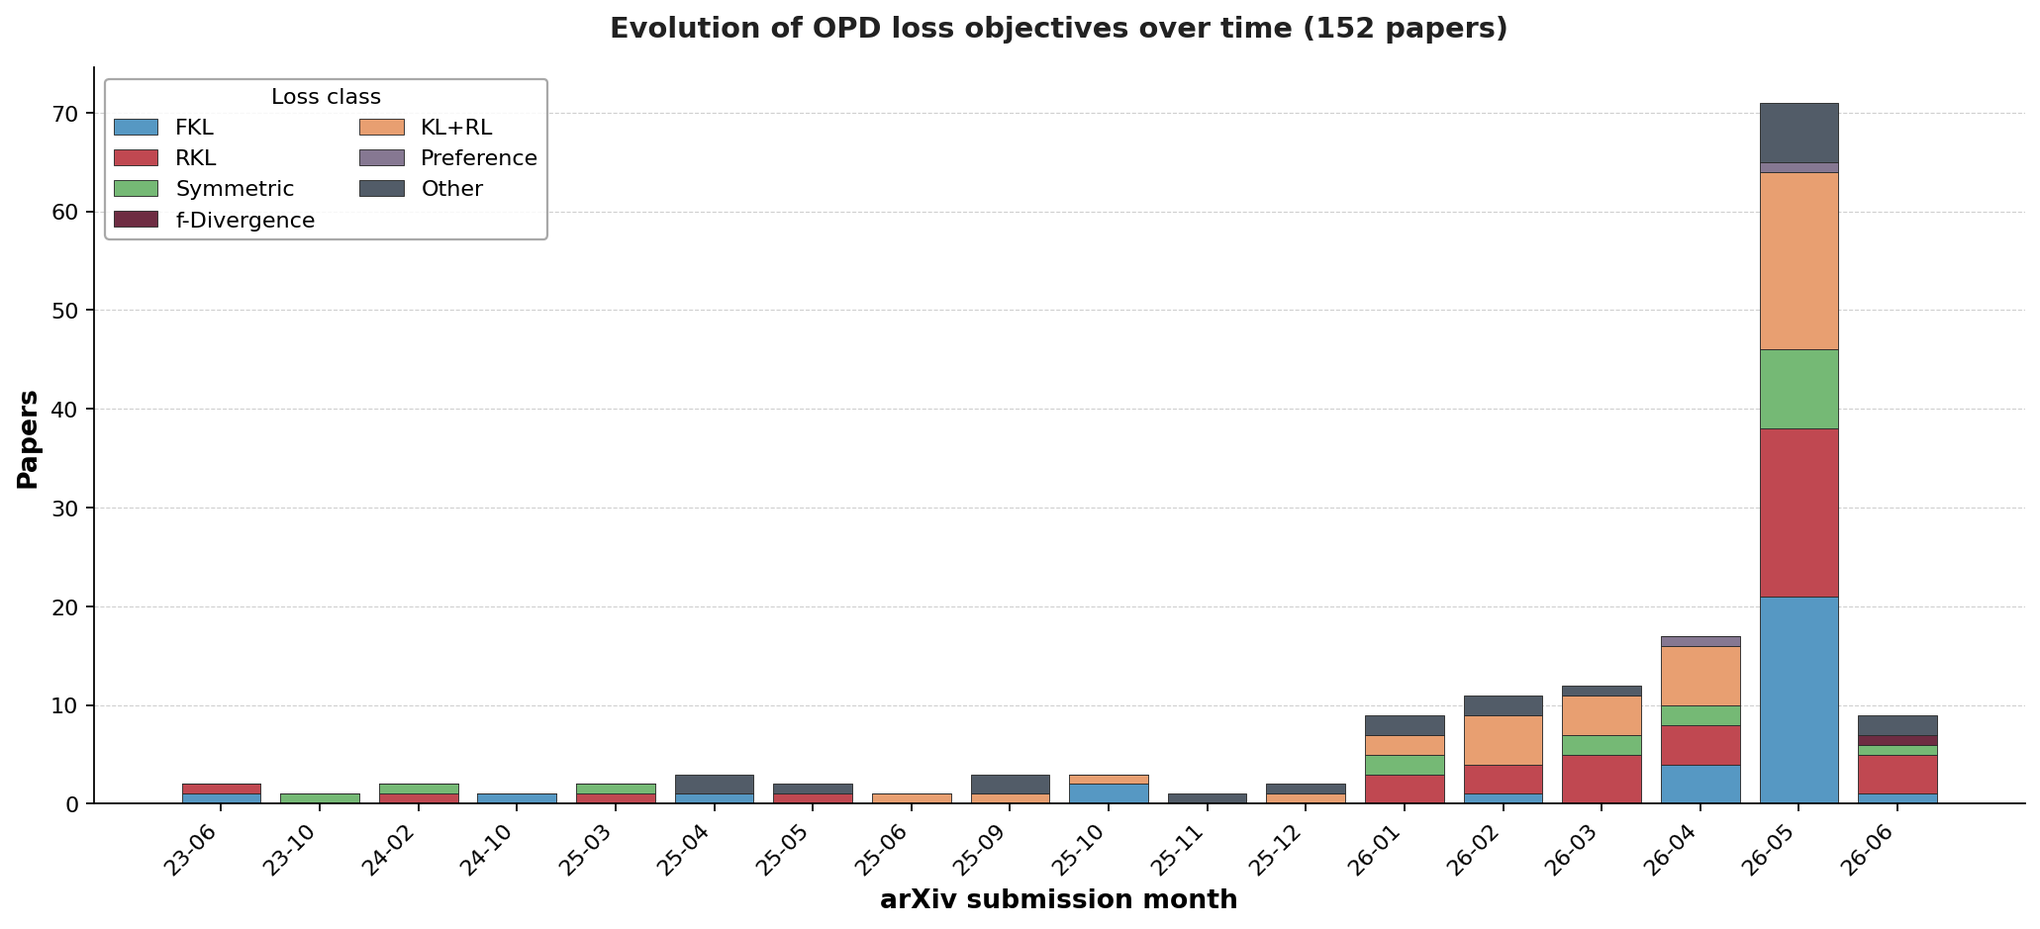
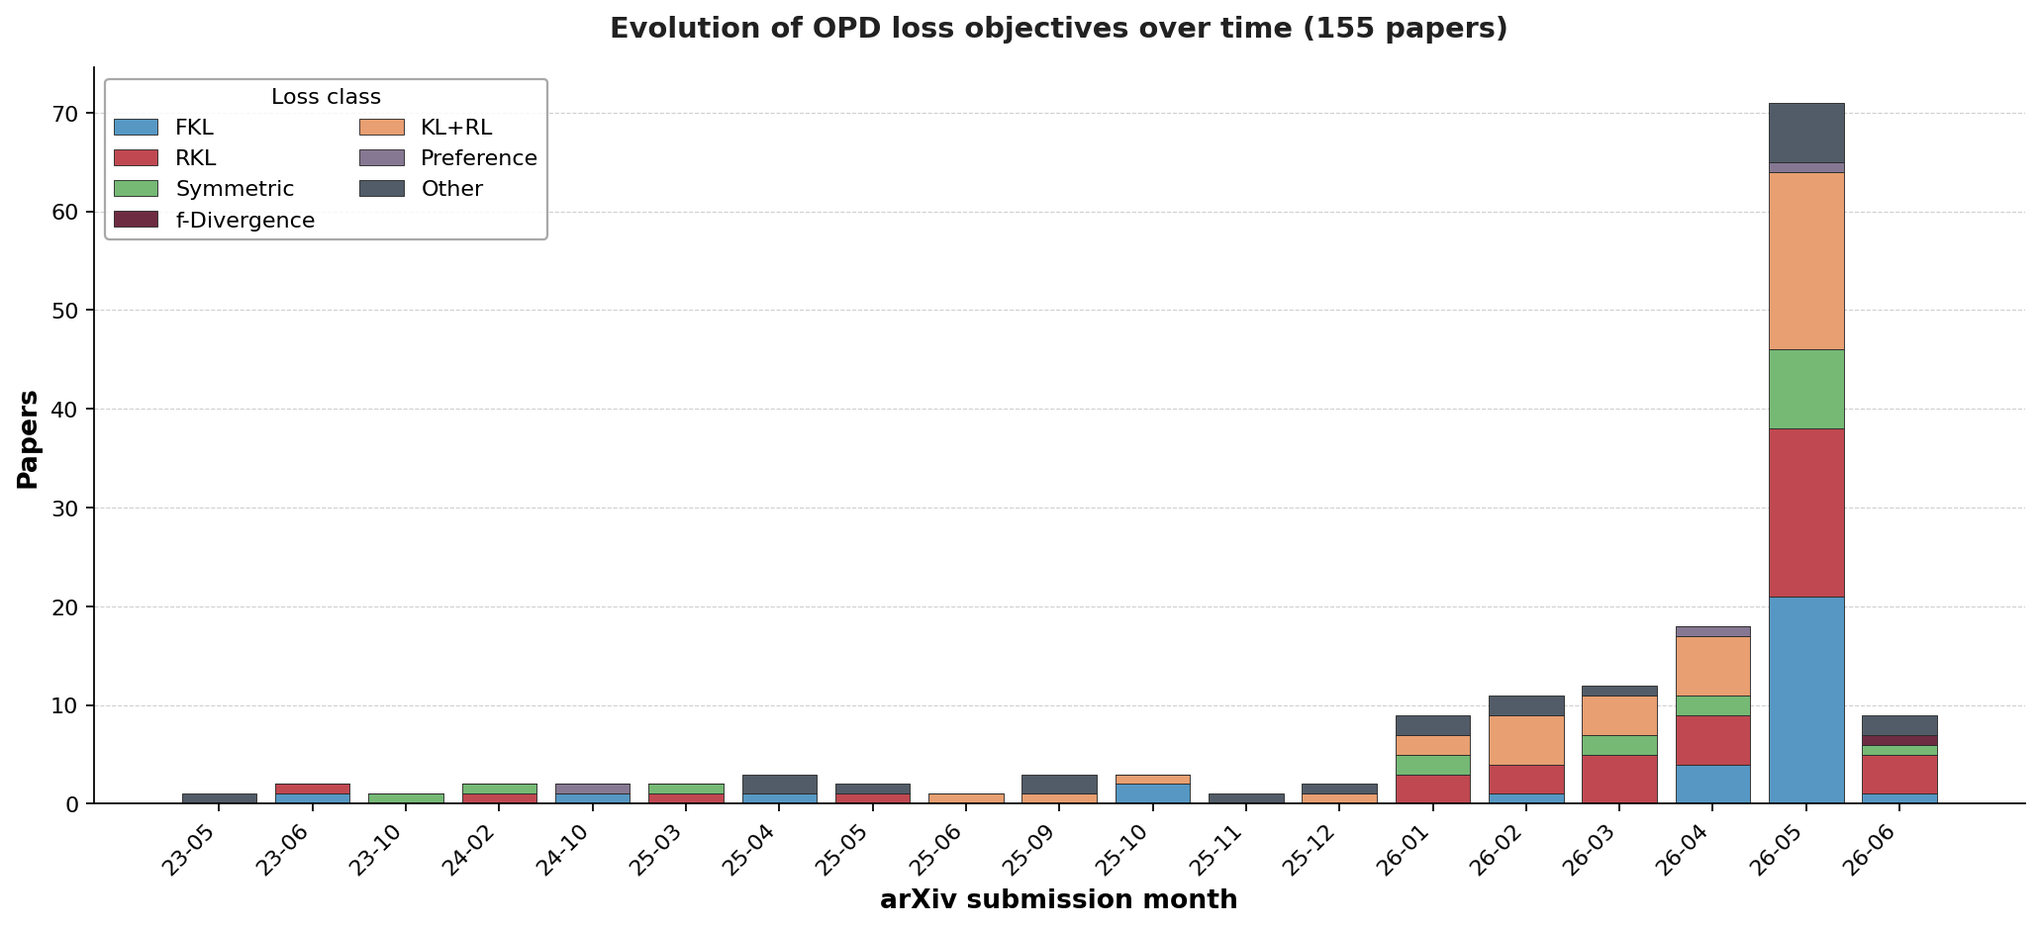
Restore 3 papers (Lion / SuperCorrect / Lightning-OPD) after v3-schema deep re-read
Original 14-paper batch flagged is_opd=yes but student_rollout_in_training=no
(internal-contradiction audit). Re-read all 14 PDFs with v3 schema:

- 3 papers actually drive teacher feedback through student-generated content,
  rollout tag was contradicted by reasoning text. Restored:
  * Lion (2305.12870) -> §6.2  (HoF early black-box OPD)
  * SuperCorrect (2410.09008) -> §5.1
  * Lightning OPD (2604.13010) -> §6.3

- 11 confirmed offline-KD or pure-self-distill, kept removed.

CHANGELOG: rewritten 2026-06-03 entry for clarity (Re-confirmed section added).
README: paper-count badge 165 -> 168, atlas text 165 -> 168 papers.
Loss-taxonomy figures + resources/loss-taxonomy.md regenerated, now 155 papers.

Survey latex-v4 cleanup logged separately (commits in survey repo): 8 bib entries
removed, 49 method-introduction citations pruned, 3 background-only references
retained at AKL §7.3, MiniPLM §9, ULD §9. pdflatex compiles 74 pages, 0
undefined refs/cites.

diff --git a/resources/loss-taxonomy.md b/resources/loss-taxonomy.md
@@ -2,49 +2,49 @@
 
 _Last updated: 2026-06-03. Auto-generated from `data/loss_classification.json`. Re-run `scripts/generate_loss_taxonomy.py` to refresh._
 
-Each of the **152** OPD papers in this collection is assigned exactly one of seven mutually-exclusive loss classes. Classification is performed by an LLM auditor that reads each paper's `loss_formulation` (LaTeX), training-loop description, and key components, then picks the dominant objective per the rules in `data/loss_taxonomy_schema.json`.
+Each of the **155** OPD papers in this collection is assigned exactly one of seven mutually-exclusive loss classes. Classification is performed by an LLM auditor that reads each paper's `loss_formulation` (LaTeX), training-loop description, and key components, then picks the dominant objective per the rules in `data/loss_taxonomy_schema.json`.
 
 ![Loss Distribution](../assets/loss-distribution.png)
 
 ## Class definitions (compact)
 
-### FKL — Forward KL  ·  **32** papers (21.1%)
+### FKL — Forward KL  ·  **32** papers (20.6%)
 
 `D_KL( \pi_T(\cdot|x) \| \pi_\theta(\cdot|x) )`
 
 _Match rule._ Loss is dominated by forward KL where the teacher distribution is the first argument (mode-covering). Includes classical KD with KL(teacher || student), CE-on-teacher-soft-targets when explicitly equivalent.
 
-### RKL — Reverse KL  ·  **40** papers (26.3%)
+### RKL — Reverse KL  ·  **41** papers (26.5%)
 
 `D_KL( \pi_\theta(\cdot|x) \| \pi_T(\cdot|x) )`
 
 _Match rule._ Loss is dominated by reverse KL where the student distribution is the first argument (mode-seeking). MiniLLM-style policy-gradient interpretations also fall here when the underlying objective is RKL to a teacher.
 
-### Symmetric — Symmetric / Skewed KL / JSD / GKL  ·  **18** papers (11.8%)
+### Symmetric — Symmetric / Skewed KL / JSD / GKL  ·  **18** papers (11.6%)
 
 `D_JSD, D_skew-KL_\alpha, D_GKL, or any symmetrized KL combination`
 
 _Match rule._ Jensen-Shannon divergence; skewed forward/reverse KL with mixture distribution \alpha\pi_T + (1-\alpha)\pi_\theta inside; bidirectional sum a*FKL + b*RKL with both nontrivial; total variation between teacher and student.
 
-### f-Divergence — Other f-divergence (alpha / Renyi / Tsallis / chi-squared)  ·  **1** papers (0.7%)
+### f-Divergence — Other f-divergence (alpha / Renyi / Tsallis / chi-squared)  ·  **1** papers (0.6%)
 
 `D_\alpha, D_Renyi, D_chi2, ... (any f-divergence beyond KL/JSD)`
 
 _Match rule._ Adaptive KL family that interpolates a parameter between FKL and RKL via alpha-divergence (AKL / TAID-style). Renyi divergence. Chi-squared. Tsallis.
 
-### KL+RL — Hybrid KL distill + RL reward  ·  **39** papers (25.7%)
+### KL+RL — Hybrid KL distill + RL reward  ·  **39** papers (25.2%)
 
 `L = D_KL(teacher, student) + \lambda \cdot R(x,a) (or GRPO/PPO surrogate with teacher KL)`
 
 _Match rule._ Loss explicitly mixes a teacher-KL distillation term with a verifiable reward / advantage / GRPO / PPO surrogate signal. Both terms must be load-bearing (removing either breaks the contribution).
 
-### Preference — Preference / Pairwise / DPO-style  ·  **2** papers (1.3%)
+### Preference — Preference / Pairwise / DPO-style  ·  **3** papers (1.9%)
 
 `DPO-style log-ratio margin between chosen and rejected responses, optionally with a KL-to-teacher hinge`
 
 _Match rule._ Preference-pair loss is the primary distillation signal: DPO, IPO, SimPO, or preference-gap KL where teacher provides the chosen response and student avoids rejected.
 
-### Other — Other / Bespoke (NLL, MSE, Contrastive, special)  ·  **20** papers (13.2%)
+### Other — Other / Bespoke (NLL, MSE, Contrastive, special)  ·  **21** papers (13.5%)
 
 `any objective that does not fit the six classes above`
 
@@ -54,16 +54,16 @@ _Match rule._ MSE on hidden states, contrastive InfoNCE between teacher/student 
 
 | Class | Papers | Share |
 |---|---:|---:|
-| FKL | 32 | 21.1% |
-| RKL | 40 | 26.3% |
-| Symmetric | 18 | 11.8% |
-| f-Divergence | 1 | 0.7% |
-| KL+RL | 39 | 25.7% |
-| Preference | 2 | 1.3% |
-| Other | 20 | 13.2% |
-| **Total** | **152** | 100% |
+| FKL | 32 | 20.6% |
+| RKL | 41 | 26.5% |
+| Symmetric | 18 | 11.6% |
+| f-Divergence | 1 | 0.6% |
+| KL+RL | 39 | 25.2% |
+| Preference | 3 | 1.9% |
+| Other | 21 | 13.5% |
+| **Total** | **155** | 100% |
 
-_Confidence breakdown: high=100, medium=51, low=1._
+_Confidence breakdown: high=103, medium=51, low=1._
 
 ![Loss Evolution Over Time](../assets/loss-evolution.png)
 
@@ -106,7 +106,7 @@ _Confidence breakdown: high=100, medium=51, low=1._
 | [2410.11325](https://arxiv.org/abs/2410.11325) | Speculative Knowledge Distillation: Bridging the Teacher-Student Gap through Interleave... | high | Loss is D(M_T \|\| M_s) = KL with teacher as first argument, i.e., forward KL D_KL(teacher \|\| student). |
 | [2306.13649](https://arxiv.org/abs/2306.13649) | On-Policy Distillation of Language Models: Learning from Self-Generated Mistakes | medium | Loss formulation uses D(p_T \|\| p_S^θ), which is forward KL with teacher as first argument, as the primary divergence. |
 
-### RKL (40)
+### RKL (41)
 
 | arXiv | Title | Conf | Evidence |
 |---|---|---|---|
@@ -133,6 +133,7 @@ _Confidence breakdown: high=100, medium=51, low=1._
 | [2605.00642](https://arxiv.org/abs/2605.00642) | Learn where to Click from Yourself: On-Policy Self-Distillation for GUI Grounding | high | Loss is D_KL(P^S(y_t) \|\| P^T(y_t)) with expectation over student samples y ~ P^S, which is reverse KL. |
 | [2604.17535](https://arxiv.org/abs/2604.17535) | OPSDL: On-Policy Self-Distillation for Long-Context Language Models | high | Policy gradient with advantage A_t = log π_Teacher - log π_θ under on-policy student samples is the REINFORCE gradient of rever... |
 | [2604.14084](https://arxiv.org/abs/2604.14084) | TIP: Token Importance in On-Policy Distillation | high | Loss is D_KL(P_S(·\|c_t) ‖ P_T(·\|c_t)), i.e., student distribution as first argument — reverse KL. |
+| [2604.13010](https://arxiv.org/abs/2604.13010) | Lightning OPD: Efficient Post-Training for Large Reasoning Models with Offline On-Polic... | high | A_t = log π_T - log π_θ; maximizing J_off = E[Σ A_t] minimizes E_{π_ref}[log π_θ - log π_T], equivalent to reverse KL under π_r... |
 | [2604.12002](https://arxiv.org/abs/2604.12002) | Self-Distillation Zero: Self-Revision Turns Binary Rewards into Dense Supervision | high | L_Self-Distillation uses D_KL(π_θ(·\|x,y_{<t}) \|\| π_{θ_SRT}(·\|x,y,P_r,y_{<t})), student is first argument = reverse KL. |
 | [2604.08527](https://arxiv.org/abs/2604.08527) | Demystifying OPD: Length Inflation and Stabilization Strategies for Large Language Models | high | Token-level reverse-KL advantage Aᵢ,ₜ = log πT − log πθ used in GRPO-clip objective is policy-gradient minimization of D_KL(πθ‖... |
 | [2603.26666](https://arxiv.org/abs/2603.26666) | VLA-OPD: Bridging Offline SFT and Online RL for Vision-Language-Action Models via On-Po... | high | Objective is J(θ) = E_{s~π_θ}[-D_KL(π_θ(·\|s) \|\| π_tea(·\|s))], explicitly reverse KL with student as first argument. |
@@ -224,14 +225,15 @@ _Confidence breakdown: high=100, medium=51, low=1._
 | [2509.22921](https://arxiv.org/abs/2509.22921) | Rethinking Large Language Model Distillation: A Constrained Markov Decision Process Per... | high | Loss combines binary task reward R with KL constraint (cumulative KL to teacher as budget), both load-bearing in CMDP formulation. |
 | [2506.02208](https://arxiv.org/abs/2506.02208) | KDRL: Post-Training Reasoning LLMs via Unified Knowledge Distillation and Reinforcement... | high | J_KDRL = J_GRPO − β·D^{k2}_KL(π_θ‖π_T) explicitly combines GRPO RL surrogate with teacher KL distillation term. |
 
-### Preference (2)
+### Preference (3)
 
 | arXiv | Title | Conf | Evidence |
 |---|---|---|---|
 | [2605.05040](https://arxiv.org/abs/2605.05040) | Preference-Based Self-Distillation: Beyond KL Matching via Reward Regularization | high | Loss is DPO-style Bradley-Terry log σ(β[log-ratio margin]) with teacher as reference policy, paired chosen/rejected samples. |
 | [2604.28123](https://arxiv.org/abs/2604.28123) | Beyond SFT-to-RL: Pre-alignment via Black-Box On-Policy Distillation for Multimodal RL | high | Bradley-Terry loss on discriminator comparing supervision y+ vs rollout y-, minimax adversarial preference-pair alignment. |
+| [2410.09008](https://arxiv.org/abs/2410.09008) | SuperCorrect: Advancing Small LLM Reasoning with Thought Template Distillation and Self... | high | Stage-2 Cross-model DPO loss uses log-sigmoid margin between teacher-corrected positive and student-generated negative pairs, c... |
 
-### Other (20)
+### Other (21)
 
 | arXiv | Title | Conf | Evidence |
 |---|---|---|---|
@@ -255,6 +257,7 @@ _Confidence breakdown: high=100, medium=51, low=1._
 | [2505.16142](https://arxiv.org/abs/2505.16142) | RLKD: Distilling LLMs' Reasoning via Reinforcement Learning | medium | GRPO with reward signals (R_acc, R_gsrm, R_format, R_tag); no explicit KL divergence to teacher distribution in the loss. |
 | [2504.19024](https://arxiv.org/abs/2504.19024) | KETCHUP: K-Step Return Estimation for Sequential Knowledge Distillation | high | REINFORCE policy gradient with K-step Bellman return using teacher Q-values as reward; no explicit KL divergence term in loss. |
 | [2504.14945](https://arxiv.org/abs/2504.14945) | Learning to Reason under Off-Policy Guidance | medium | JSHAPING combines clipped on-policy GRPO with regularized importance-weighted off-policy advantage; no explicit KL divergence t... |
+| [2305.12870](https://arxiv.org/abs/2305.12870) | Lion: Adversarial Distillation of Proprietary Large Language Models | high | Loss is NLL/CE on teacher-generated sequences: L = -sum_t log P_theta(y_t\|x,y_{<t}), no KL divergence term. |
 
 ## Methodology
 

diff --git a/CHANGELOG.md b/CHANGELOG.md
@@ -7,18 +7,25 @@ All notable additions to this collection are documented here.
 - **TRB** (2605.31159) — *Trust-Region Behavior Blending for On-Policy Distillation* — added to §6.2 (Training Efficiency and Stabilization, curriculum/warmup) and Pending Papers. Trust-region warmup curriculum: behavior policy under student-centered KL constraint stabilizes early-stage OPD; standard reverse-KL distill loss unchanged. Pairs: Qwen3-1.7B-Base ← Qwen3-8B / Qwen3-0.6B-Base ← Qwen3-4B. Surfaced via community PR (#2 by @Myashka, closed in favour of in-pipeline insertion with corrected pair direction and base-variant tags).
 - **TRAPO** (2512.17636) — *Trust-Region Adaptive Policy Optimization* — added to §4.1 (Objective Functions, Forward-KL family) and Pending Papers. TrSFT: dynamic trust-region forward-KL on expert prefixes, interleaved with RL on student completions; adaptive prefix selection by utility. Pairs: Qwen2.5-Math-7B / Qwen2.5-7B-Instruct ← DeepSeek-R1.
 
+### Re-confirmed (v3-schema deep re-read, restored 3 of original 14-paper batch)
+- After the initial audit flagged 14 papers as `is_opd=yes` but `student_rollout_in_training=no`, a follow-up v3-schema deep re-read of all 14 PDFs found 3 to actually qualify as OPD methods (the v3 reasoning text contradicted the rollout tag in those 3 cases, but the methods themselves do drive teacher feedback through student-generated content). Restored to README at the original sections via `scripts/awesome_list_inserter.py`:
+  - **Lion** (2305.12870) → §6.2 (⭐ HoF early black-box OPD; iterative imitation-discrimination-generation loop on student-generated hard instructions, ChatGPT teacher).
+  - **SuperCorrect** (2410.09008) → §5.1 (thought-template distillation + cross-model DPO on student-generated erroneous reasoning, Qwen2.5-Math-7B / Llama-3.1-8B / DeepSeekMath-7B ← o1-mini).
+  - **Lightning OPD** (2604.13010) → §6.3 (offline precomputed teacher logprobs, theoretical equivalence to online OPD under teacher-consistency, Qwen3-Base ← Qwen3 / QwQ-32B).
+
 ### Removed
-- 14 papers reclassified out of scope after audit found `is_opd=yes` but `student_rollout_in_training=no` (v3 reasoning text contradicted the tag, all are offline KD or pure self-distillation without rollout): Lion (2305.12870, ⭐ HoF), AKL (2404.02657, ⭐ HoF), MiniPLM (2410.17215), TAID (2501.16937), SuperCorrect (2410.09008), ToDi (2505.16297), AdaKD (2510.11615), Delta-KD (2509.14526), Cross-Tokenizer Distillation (2402.12030), Lightning OPD (2604.13010), Self-Distilled Trajectory-Aware Boltzmann (2605.11854), Embarrassingly Simple Self-Distillation (2604.01193), SSB (2512.05105), Didactic-to-Constructive (2602.02405). Per scope rule (Awesome list = OPD methods + analysis-of-OPD only); these remain referenced in the survey LaTeX as background.
+- 11 papers (revised from initial 14-paper list after re-read above) reclassified out of scope, all confirmed offline KD or pure self-distillation without rollout-in-loss-loop. Per scope rule (Awesome list = OPD methods + analysis-of-OPD only); these remain referenced in the survey LaTeX as background where appropriate (AKL §7.3 theory, MiniPLM / ULD §9 future work):
+  - AKL (2404.02657, ⭐ HoF), MiniPLM (2410.17215), TAID (2501.16937), ToDi (2505.16297), AdaKD (2510.11615), Delta-KD (2509.14526), Cross-Tokenizer Distillation / ULD (2402.12030), Self-Distilled Trajectory-Aware Boltzmann / TABOM (2605.11854), Embarrassingly Simple Self-Distillation (2604.01193), SSB (2512.05105), Didactic-to-Constructive / DAIL (2602.02405).
 - 3 additional papers reclassified out of scope after a follow-up scan triggered by spotting *On-Policy SFT for Efficient Reasoning* (2602.13407). All three share the same signature as the SPIN/IRIS boundary cases: signal source is self / PI(GT) / verifier-only and the loss has **no teacher-distribution KL term**, making them rejection-sampled self-training or DPO-style preference rather than distillation:
   - **On-Policy SFT for Efficient Reasoning** (2602.13407) — NLL on filtered correct rollouts, paper itself states "reward-free training recipe on-policy SFT"; STaR / RFT / ReST family.
   - **Retaining by Doing** (2510.18874) — GRPO with KL to *initial policy* (not teacher) plus a separate SFT branch; analysis of RL vs SFT for forgetting, no teacher-distill term.
   - **ORPO-Distill** (2509.25100) — ORPO preference loss `L_SFT + λ·log σ(log-odds(yP)/odds(yN))`; pairwise preference rather than distribution matching, same family as SPIN.
-- Paper count badge: 175 → 165.
+- Net effect (removals 14 → restored 3 → effective remove 11; plus separate 3-paper self-play removal; plus TRB / TRAPO additions): paper count badge **183 → 168**; survey latex-v4 also pruned of 11 method-introduction citations (49 → 3 background-only references retained at AKL §7.3, MiniPLM §9, ULD §9), references.bib pruned of 8 stale entries.
 
 ### Changed
 - Model-pair fields corrected for 9 papers where v3 deep-read pairs disagreed with prior README entries (AOPD 2605.06387 / TGPO 2605.13230 / Long-Context OPD 2605.12227 / Best-of-N Teacher 2605.09725 / CoPD 2604.27083 / Speculative-KD 2410.11325 / TCOD 2604.24005 / VLA-OPD 2603.26666 / DAgger 2605.12913).
 - `scripts/generate_loss_taxonomy.py` now restricts loss-distribution PNG / loss-evolution PNG / loss-taxonomy.md to papers actually present in this README, so taxonomy figures stay aligned with the published list when scope cleanups happen.
-- Loss-taxonomy figures now cover **152 OPD-method papers** (excluding 13 analysis-of-OPD papers and 6 reference-only entries from the count, since they don't propose a single OPD loss).
+- Loss-taxonomy figures regenerated against the post-cleanup README, now covering **155 papers** (152 OPD-method + 3 restored after v3 re-read).
 
 ## [2026-05-30]
 ### Added

diff --git a/README.md b/README.md
@@ -17,7 +17,7 @@
 
 <p align="center">
   <a href="https://awesome.re"><img src="https://awesome.re/badge.svg" alt="Awesome"></a>
-  <img src="https://img.shields.io/badge/Papers-190-blue" alt="Papers">
+  <img src="https://img.shields.io/badge/Papers-168-blue" alt="Papers">
   <img src="https://img.shields.io/github/last-commit/nick7nlp/Awesome-LLM-On-Policy-Distillation?label=Last%20Updated&color=green" alt="Last Updated">
   <img src="https://img.shields.io/badge/Survey-V3-orange" alt="Survey V3">
 </p>
@@ -229,7 +229,7 @@ gantt
 
 ## 🔍 Teacher–Student Model Atlas
 
-> 🎯 "I have model X — what can I distill, and from whom?" This atlas maps the OPD ecosystem's model choices across 165 papers.
+> 🎯 "I have model X — what can I distill, and from whom?" This atlas maps the OPD ecosystem's model choices across 168 papers.
 
 <p align="center">
   <img src="assets/model-atlas-heatmap.png" alt="Teacher × Student Pair Matrix: Y-axis = teacher models, X-axis = student models, grouped by family. ①-⑤ marks frequency rank." width="960">
@@ -467,6 +467,7 @@ On-Policy Distillation (Survey V3 Structure)
 | 🟢 [PromptKD: Distilling Student-Friendly Knowledge for Generative Language Models via Prompt Tuning](https://arxiv.org/abs/2402.12842) <br><sub>📐 GPT-2 120M–760M / OPT/Llama-7B → GPT-2 XL / OPT-13B / Llama-13B</sub> | 2024 | [![Code](https://img.shields.io/badge/Code-GitHub-blue)](https://github.com/gmkim-ai/PromptKD) |
 | 🟢 [MiniLLM: On-Policy Distillation of Large Language Models](https://arxiv.org/abs/2306.08543) <br><sub>📐 GPT-2 120M–760M → GPT-2 1.5B / GPT-J 6B / OPT-13B</sub> | 2023 | [![Code](https://img.shields.io/badge/Code-GitHub-blue)](https://github.com/microsoft/LMOps/tree/main/minillm) |
 | 🟡 [Pair-In, Pair-Out: Latent Multi-Token Prediction for Efficient LLMs](https://arxiv.org/abs/2605.27255) <br><sub>📐 Qwen3.5-9B → compressed Qwen3.5 (latent MTP); On-policy distillation stage with reverse-KL on student rollouts + auxiliary confidence-head BCE loss, used to recover accuracy of latent multi-token-prediction compressor trained on DAPO-Math + Codeforces</sub> | 2026 |  |
+| 🟡 [SuperCorrect: Advancing Small LLM Reasoning with Thought Template Distillation and Self-Correction](https://arxiv.org/abs/2410.09008) <br><sub>📐 Qwen2.5-Math-7B / Llama-3.1-8B / DeepSeekMath-7B → o1-mini; SuperCorrect: thought template distillation + cross-model DPO on student-generated erroneous reasoning</sub> | 2026 |  |
 
 <p align="right">(<a href="#readme-top">back to top</a>)</p>
 
@@ -605,6 +606,8 @@ On-Policy Distillation (Survey V3 Structure)
 | 🟡 [Are Full Rollouts Necessary for On-Policy Distillation?](https://arxiv.org/abs/2605.31490) <br><sub>📐 JustRL-R1-1.5B → R1-Distill-1.5B; Horizon-control strategies (POPD, TOPD) improve OPD efficiency by truncating rollouts</sub> | 2026 |  |
 | 🟡 [SafeSteer: Localized On-Policy Distillation for Efficient Safety Alignment](https://arxiv.org/abs/2606.02530) <br><sub>📐 Qwen3-4B-Instruct → Self; Localized on-policy distillation confined to safety tokens via activation steering teacher</sub> | 2026 |  |
 | 🟡 [Trust-Region Behavior Blending for On-Policy Distillation](https://arxiv.org/abs/2605.31159) <br><sub>📐 Qwen3-1.7B-Base / Qwen3-0.6B-Base → Qwen3-8B / Qwen3-4B; Trust-region warmup curriculum: behavior policy under student-centered KL constraint stabilizes early-stage OPD; standard reverse-KL distill loss unchanged</sub> | 2026 |  |
+| 🟡 [Lion: Adversarial Distillation of Proprietary Large Language Models](https://arxiv.org/abs/2305.12870) <br><sub>📐 Lion-7B / Lion-13B (LLaMA) → ChatGPT (gpt-3.5-turbo, black-box API); Adversarial black-box distillation: imitation-discrimination-generation loop iteratively identifies hard instructions via student-teacher gap; 黑盒 OPD 早期代表 (HoF-tier)</sub> | 2026 |  |
+| 🟡 [Lightning OPD: Efficient Post-Training for Large Reasoning Models with Offline On-Policy Distillation](https://arxiv.org/abs/2604.13010) <br><sub>📐 Qwen3-4B-Base / Qwen3-8B-Base → Qwen3-8B / Qwen3-32B / QwQ-32B; Lightning-OPD: offline precomputed teacher logprobs eliminate live teacher server; theoretical equivalence to online OPD under teacher consistency</sub> | 2026 |  |
 
 <p align="right">(<a href="#readme-top">back to top</a>)</p>
 
@@ -796,6 +799,9 @@ On-Policy Distillation (Survey V3 Structure)
 | 🟡 [Weak Critics Make Strong Learners: On-Policy Critique Distillation for Scalable Oversight](https://arxiv.org/abs/2606.00424) | §5.3.1 | Core contribution is on-policy self-distillation where the teacher is the same strong model conditio |
 | 🟡 [Trust-Region Behavior Blending for On-Policy Distillation](https://arxiv.org/abs/2605.31159) | §6.2 | Core contribution is a curriculum/warmup technique (annealed trust-region behavior blending) that im |
 | 🟡 [Trust-Region Adaptive Policy Optimization](https://arxiv.org/abs/2512.17636) | §4.1 | Core contribution is a new trust-region objective (TrSFT) that modifies forward KL for stable on-pol |
+| 🟡 [Lion: Adversarial Distillation of Proprietary Large Language Models](https://arxiv.org/abs/2305.12870) | §6.2 | The core contribution is an adversarial curriculum that iteratively identifies hard instructions bas |
+| 🟡 [Lightning OPD: Efficient Post-Training for Large Reasoning Models with Offline On-Policy Distillation](https://arxiv.org/abs/2604.13010) | §6.3 | Core contribution is making OPD computationally efficient by eliminating live teacher server through |
+| 🟡 [SuperCorrect: Advancing Small LLM Reasoning with Thought Template Distillation and Self-Correction](https://arxiv.org/abs/2410.09008) | §5.1 | Core contribution is distilling teacher correction traces into student via DPO on student-generated  |
 
 ## ❓ FAQ
 
